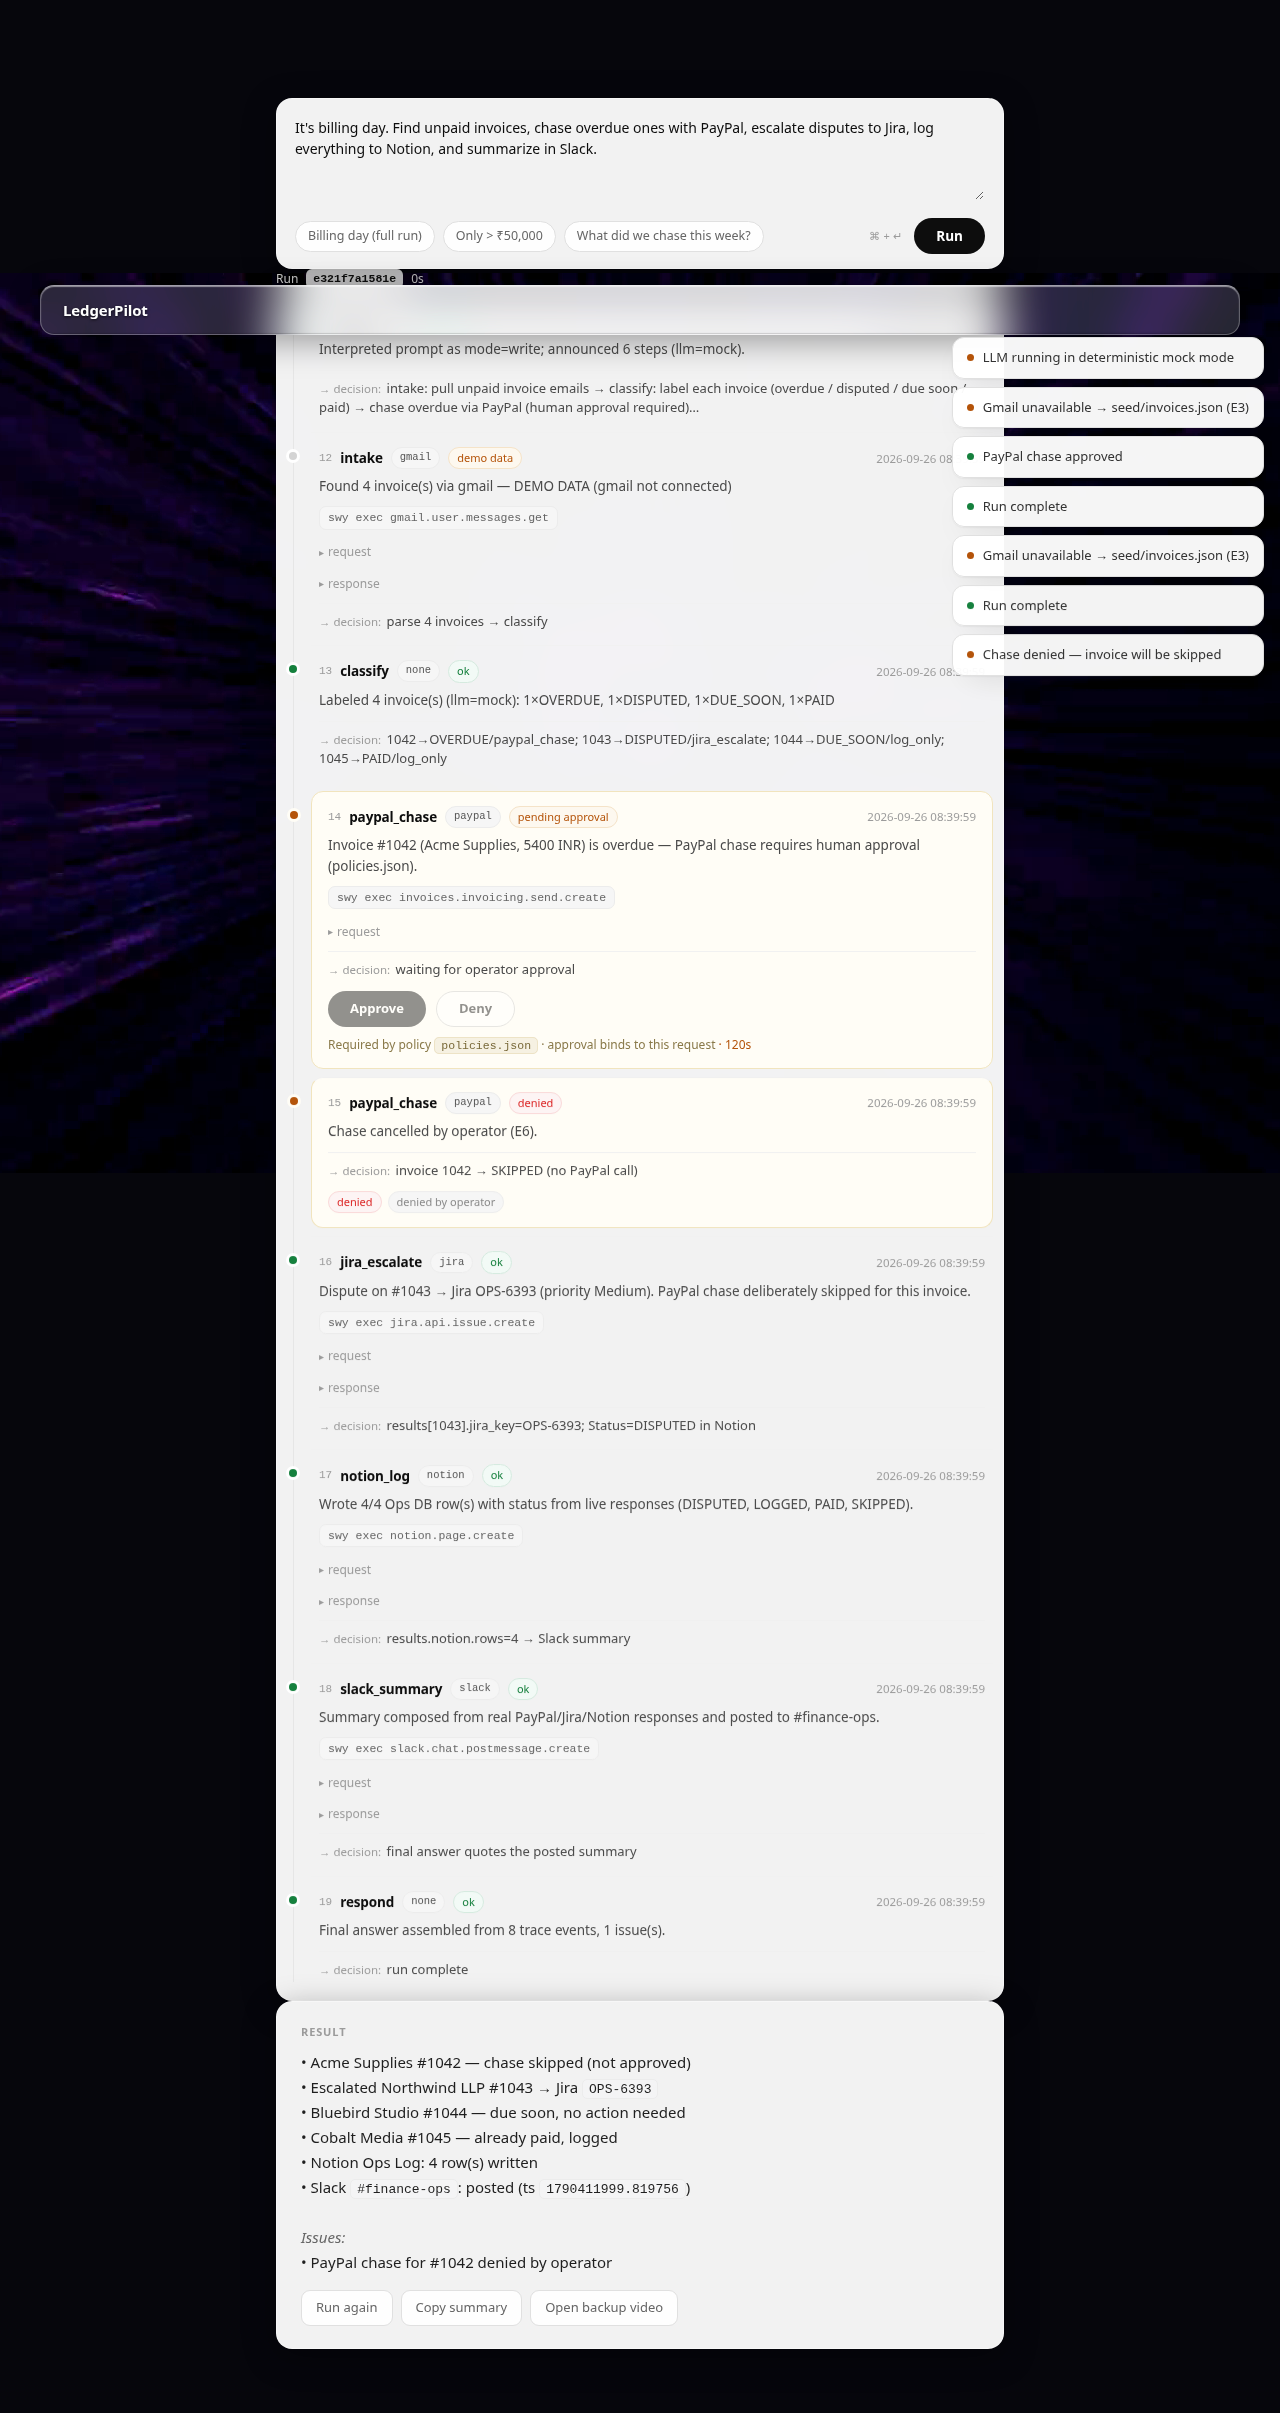
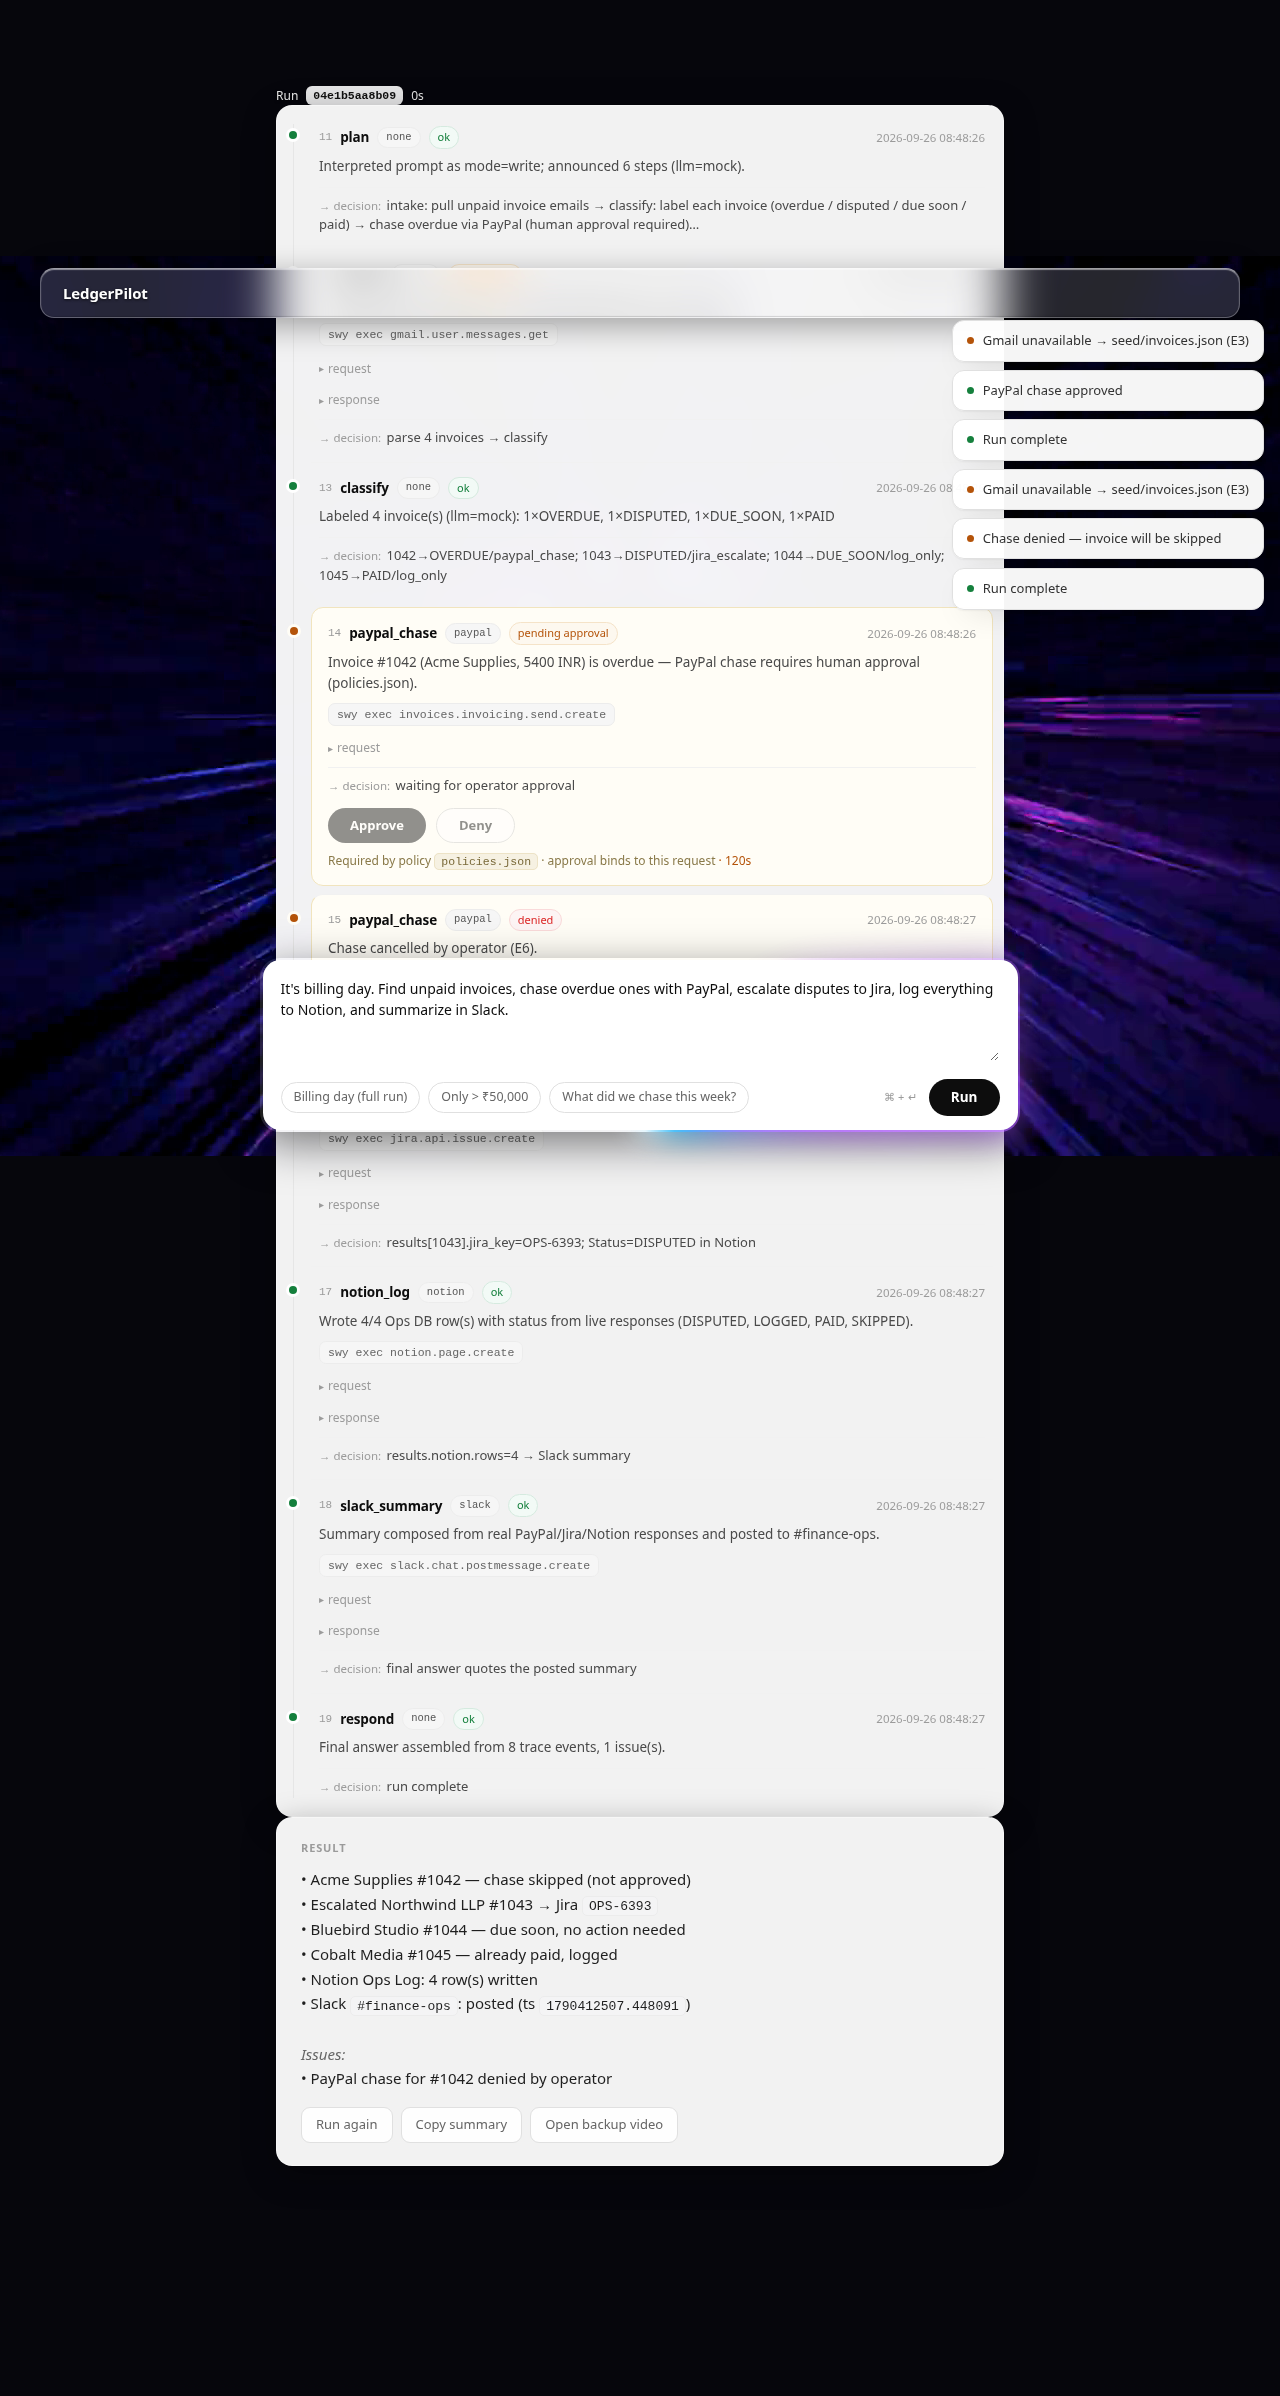
UI: move prompt composer to bottom center with animated walking snake corner glow

diff --git a/ui/index.html b/ui/index.html
@@ -12,8 +12,8 @@
   --panel:rgba(255,255,255,.92);
 }
 *{box-sizing:border-box}
-html{background:#06060c}
-html,body{margin:0;padding:0}
+html{background:#06060c; scroll-padding-bottom:260px}
+html,body{margin:0;padding:0; scroll-behavior:smooth}
 body{
   color:var(--text); min-height:100vh;
   font-family:ui-sans-serif,system-ui,-apple-system,"Segoe UI",Roboto,sans-serif;
@@ -73,17 +73,67 @@ header{
 }
 #banner a.ghost{padding:3px 10px; font-size:12px; text-decoration:none}
 
-/* ---------- layout ---------- */
-main{max-width:760px; margin:0 auto; padding:36px 16px 64px}
-.promptbox{
-  background:rgba(255,255,255,.95);
-  -webkit-backdrop-filter:blur(16px); backdrop-filter:blur(16px);
-  border:1px solid rgba(255,255,255,.4); border-radius:16px;
-  padding:18px 18px 14px; box-shadow:0 8px 32px rgba(0,0,0,.35);
-  transition:border-color .15s ease, box-shadow .15s ease;
+@property --snake-angle{
+  syntax:"<angle>";
+  inherits:false;
+  initial-value:0deg;
 }
-.promptbox:focus-within{border-color:#fff; box-shadow:0 12px 40px rgba(0,0,0,.45)}
-.promptbox.err{border-color:#FCA5A5; box-shadow:0 0 0 3px rgba(220,38,38,.10)}
+
+@keyframes snake-walk{
+  0%{--snake-angle:0deg}
+  100%{--snake-angle:360deg}
+}
+
+/* ---------- layout ---------- */
+main{max-width:760px; margin:0 auto; padding:24px 16px 230px}
+
+.promptbox-wrapper{
+  position:fixed; bottom:24px; left:50%; transform:translateX(-50%);
+  width:min(760px, calc(100% - 32px)); z-index:30;
+  border-radius:20px; padding:2.5px;
+  background:conic-gradient(
+    from var(--snake-angle),
+    rgba(255,255,255,0.12) 0%,
+    rgba(255,255,255,0.12) 65%,
+    rgba(168,85,247,0.5) 76%,
+    #C084FC 85%,
+    #38BDF8 93%,
+    #FFFFFF 98%,
+    rgba(255,255,255,0.12) 100%
+  );
+  animation:snake-walk 3.5s linear infinite;
+  box-shadow:0 12px 44px rgba(0,0,0,.5);
+}
+.promptbox-wrapper::before{
+  content:"";
+  position:absolute; inset:-4px; border-radius:24px;
+  background:conic-gradient(
+    from var(--snake-angle),
+    transparent 0%,
+    transparent 65%,
+    rgba(168,85,247,0.7) 80%,
+    rgba(56,189,248,0.95) 92%,
+    #FFFFFF 99%,
+    transparent 100%
+  );
+  filter:blur(14px);
+  opacity:0.95;
+  z-index:-1;
+  pointer-events:none;
+  animation:snake-walk 3.5s linear infinite;
+}
+
+.promptbox{
+  position:relative; z-index:1;
+  background:#FFFFFF;
+  border-radius:17.5px;
+  padding:18px 18px 14px;
+  transition:box-shadow .15s ease;
+}
+.promptbox:focus-within{
+  box-shadow:0 0 0 1px #fff;
+}
+.promptbox.err{box-shadow:0 0 0 3px rgba(220,38,38,.4)}
 textarea{
   width:100%; min-height:84px; max-height:220px; resize:vertical;
   background:transparent; border:0; color:var(--text); font-size:15px;
@@ -230,7 +280,7 @@ pre{
   transition:border-color .12s ease, color .12s ease;
 }
 .ghost:hover{color:var(--text); border-color:#C9C9C9}
-#empty{color:rgba(255,255,255,0.75); text-shadow:0 1px 4px rgba(0,0,0,0.8); text-align:center; padding:64px 0 48px; font-size:14px; font-weight:500}
+#empty{color:rgba(255,255,255,0.75); text-shadow:0 1px 4px rgba(0,0,0,0.8); text-align:center; padding:22vh 0 48px; font-size:15px; font-weight:500}
 
 /* ---------- toasts ---------- */
 #toasts{position:fixed; top:64px; right:16px; z-index:50; display:flex; flex-direction:column; gap:8px}
@@ -283,20 +333,22 @@ pre{
 </div>
 
 <main>
-  <div class="promptbox" id="promptbox">
-    <textarea id="prompt" placeholder="It's billing day. Find unpaid invoices, chase overdue ones with PayPal, escalate disputes to Jira, log to Notion, summarize in Slack…"></textarea>
-    <div class="prow">
-      <div class="chips">
-        <button class="chip" onclick="useChip(0)">Billing day (full run)</button>
-        <button class="chip" onclick="useChip(1)">Only &gt; ₹50,000</button>
-        <button class="chip" onclick="useChip(2)">What did we chase this week?</button>
+  <div class="promptbox-wrapper">
+    <div class="promptbox" id="promptbox">
+      <textarea id="prompt" placeholder="It's billing day. Find unpaid invoices, chase overdue ones with PayPal, escalate disputes to Jira, log to Notion, summarize in Slack…"></textarea>
+      <div class="prow">
+        <div class="chips">
+          <button class="chip" onclick="useChip(0)">Billing day (full run)</button>
+          <button class="chip" onclick="useChip(1)">Only &gt; ₹50,000</button>
+          <button class="chip" onclick="useChip(2)">What did we chase this week?</button>
+        </div>
+        <div class="flex items-center gap-3">
+          <span class="kbd" aria-hidden="true">⌘ + ↵</span>
+          <button id="runBtn" onclick="run()">Run</button>
+        </div>
       </div>
-      <div class="flex items-center gap-3">
-        <span class="kbd" aria-hidden="true">⌘ + ↵</span>
-        <button id="runBtn" onclick="run()">Run</button>
-      </div>
+      <div id="validation">Describe the billing task — e.g. “Chase overdue invoices”</div>
     </div>
-    <div id="validation">Describe the billing task — e.g. “Chase overdue invoices”</div>
   </div>
 
   <div id="runMeta" class="runmeta"></div>
@@ -392,7 +444,7 @@ function renderCard(ev){
     ${isApproval?approvalUI(ev):''}
   `;
   tl.appendChild(card);
-  card.scrollIntoView({block:'nearest', behavior:'smooth'});
+  card.scrollIntoView({block:'center', behavior:'smooth'});
 
   if(isApproval && ev.status === 'pending_approval'){
     card.dataset.hash = ev.request_hash; card.dataset.invoice = ev.invoice_id;
@@ -502,7 +554,7 @@ function finish(answer){
   f.classList.add('show');
   stopRun();
   toast('Run complete', 'ok');
-  f.scrollIntoView({behavior:'smooth', block:'nearest'});
+  f.scrollIntoView({behavior:'smooth', block:'center'});
 }
 
 function runAgain(){ resetView(); document.getElementById('prompt').value = CHIPS[0]; run(); }
